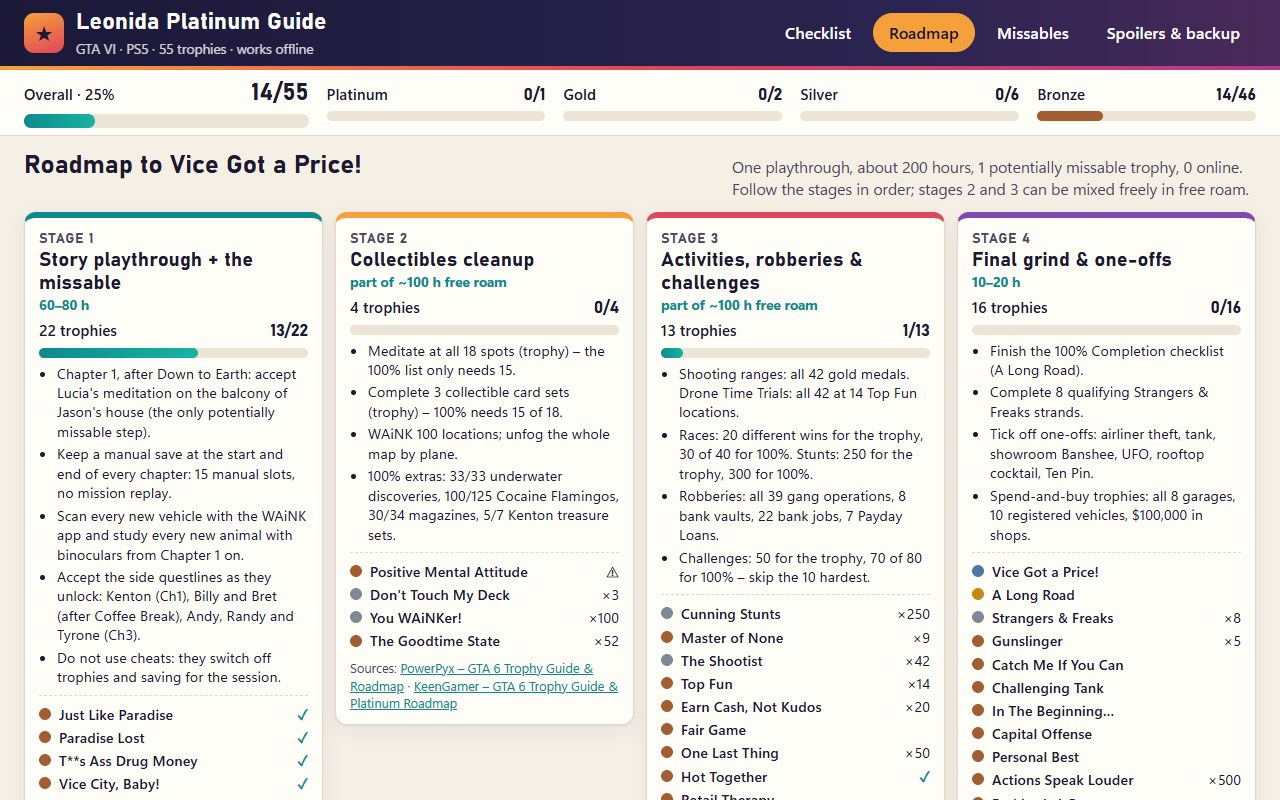
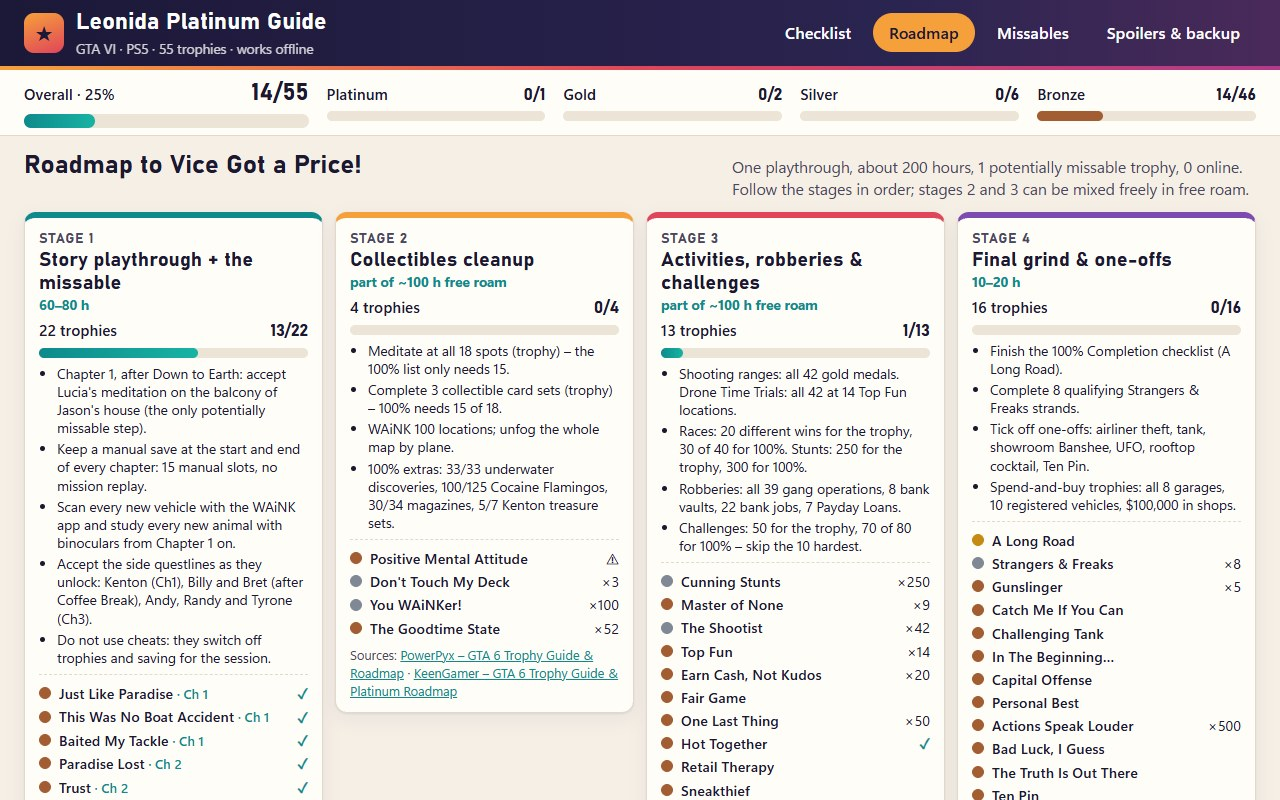
Order the roadmap's story stage by chapter and pre-check trophies.json
- Stage 1 of the roadmap now follows the story timeline with chapter
  labels; free-roam stages keep list order with the platinum last.
- main.ts reports (on stderr only) any missing guide or wrong trophy count
  before writing the dossier, so output stays byte for byte identical.
- Retook the roadmap screenshot; README notes the smoke test.

Changed region(s): [[0.0312, 0.4375, 0.7188, 1.0], [0.6875, 0.4062, 0.9688, 1.0], [0.9375, 0.9688, 0.9688, 1.0]]

diff --git a/main.ts b/main.ts
@@ -6,7 +6,7 @@
 // Run the guide locally: node serve.ts  (then open http://localhost:8080)
 // Hand it in locally:    mkdir -p out && MAKEFUN_OUTPUT_DIR=out node main.ts
 
-import { cpSync, existsSync, mkdirSync, writeFileSync } from 'node:fs';
+import { cpSync, existsSync, mkdirSync, readFileSync, writeFileSync } from 'node:fs';
 import { join } from 'node:path';
 import { fileURLToPath } from 'node:url';
 import { buildDossier } from './vendor/makefun-frontend.ts';
@@ -22,6 +22,25 @@ const DOSSIER_LIMITS = {
   app_max_bytes: 50331648,
 };
 
+const OFFICIAL_TROPHY_COUNT = 55;
+
+// Pre-flight: the gate needs every official trophy named in app/data/trophies.json with a non-blank guide.
+// Problems are reported on stderr only, so the files written stay byte for byte the same on every run.
+function reportTrophyFileProblems(): void {
+  const problems: string[] = [];
+  try {
+    const parsed = JSON.parse(readFileSync(join(here, 'app', 'data', 'trophies.json'), 'utf8'));
+    const trophies: Array<{ name?: unknown; guide?: unknown }> = Array.isArray(parsed) ? parsed : parsed.trophies;
+    if (trophies.length !== OFFICIAL_TROPHY_COUNT) problems.push(`${trophies.length} trophies, expected ${OFFICIAL_TROPHY_COUNT}`);
+    for (const trophy of trophies) {
+      if (typeof trophy.guide !== 'string' || trophy.guide.trim() === '') problems.push(`no guide for ${String(trophy.name)}`);
+    }
+  } catch (error) {
+    problems.push(`app/data/trophies.json is unreadable: ${(error as Error).message}`);
+  }
+  for (const problem of problems) console.error(`trophies.json: ${problem}`);
+}
+
 function copyGuideInto(outputDir: string): void {
   mkdirSync(outputDir, { recursive: true });
   cpSync(join(here, 'app'), join(outputDir, 'app'), { recursive: true });
@@ -35,5 +54,6 @@ function writeDossier(outputDir: string): void {
   writeFileSync(join(outputDir, 'dossier.json'), buildDossier(outputDir, DOSSIER_LIMITS));
 }
 
+reportTrophyFileProblems();
 copyGuideInto(out);
 writeDossier(out);

diff --git a/app/js/views/roadmap-view.js b/app/js/views/roadmap-view.js
@@ -1,7 +1,7 @@
 // The roadmap to the platinum: four stages in order, each with its tasks, its trophies and their progress.
 import { el, replaceContent } from '../ui/dom.js';
 import { renderGradeDot, renderMeter } from '../ui/grade-badge.js';
-import { trophiesInStage } from '../data/load-trophy-data.js';
+import { storyStepOf, trophiesInStage } from '../data/load-trophy-data.js';
 import { maskedTrophyName } from '../logic/spoiler-rules.js';
 import { renderSourceLine } from '../ui/source-links.js';
 
@@ -42,15 +42,17 @@ function renderStageCard(stage, context) {
 
 function renderStageTrophy(trophy, context) {
   const masked = context.isMasked(trophy);
+  const step = storyStepOf(context.data, trophy.id);
   return el(
     'li',
     { className: 'stage-trophy' },
     renderGradeDot(trophy.grade),
-    el('a', {
-      href: `#/checklist/${trophy.id}`,
-      text: masked ? maskedTrophyName(trophy) : trophy.name,
-      title: masked ? 'Spoiler hidden' : trophy.description,
-    }),
+    el(
+      'a',
+      { href: `#/checklist/${trophy.id}`, title: masked ? 'Spoiler hidden' : trophy.description },
+      masked ? maskedTrophyName(trophy) : trophy.name,
+      step && trophy.stage === 1 && el('span', { className: 'stage-chapter', text: ` · ${step.chapter.replace('Chapter ', 'Ch ')}` }),
+    ),
     context.progress.isEarned(trophy.id)
       ? el('span', { className: 'done', text: '✓' })
       : el('span', { text: trophy.missable ? '⚠' : trophy.count ? `×${trophy.count}` : '' }),

diff --git a/app/js/data/load-trophy-data.js b/app/js/data/load-trophy-data.js
@@ -21,6 +21,29 @@ export function indexTrophyData(raw) {
   };
 }
 
+/**
+ * A stage's trophies in play order. The story stage follows the story timeline chapter by chapter; the free-roam
+ * stages keep the official list order, with the platinum always last.
+ */
 export function trophiesInStage(data, stageId) {
-  return data.trophies.filter((trophy) => trophy.stage === stageId);
+  const inStage = data.trophies.filter((trophy) => trophy.stage === stageId);
+  if (stageId === 1) {
+    const storyPosition = storyOrderOf(data);
+    const positionOf = (trophy) => storyPosition.get(trophy.id) ?? Infinity;
+    return inStage.sort((a, b) => positionOf(a) - positionOf(b) || a.id - b.id);
+  }
+  const platinumLast = (trophy) => (trophy.grade === 'platinum' ? 1 : 0);
+  return inStage.sort((a, b) => platinumLast(a) - platinumLast(b) || a.id - b.id);
+}
+
+function storyOrderOf(data) {
+  const position = new Map();
+  data.timeline.forEach((step, index) => {
+    for (const id of step.trophies) if (!position.has(id)) position.set(id, index);
+  });
+  return position;
+}
+
+export function storyStepOf(data, trophyId) {
+  return data.timeline.find((step) => step.trophies.includes(trophyId));
 }

diff --git a/app/css/views.css b/app/css/views.css
@@ -64,8 +64,8 @@
 .stage-tasks {
   margin: 6px 0;
   padding-left: 18px;
-  font-size: 0.9rem;
-  line-height: 1.35;
+  font-size: 0.86rem;
+  line-height: 1.32;
 }
 
 .stage-tasks li + li {
@@ -96,6 +96,12 @@
   white-space: nowrap;
   overflow: hidden;
   text-overflow: ellipsis;
+}
+
+.stage-chapter {
+  font-weight: 500;
+  color: var(--teal);
+  font-size: 0.82rem;
 }
 
 .stage-trophy .done {

diff --git a/README.md b/README.md
@@ -12,7 +12,7 @@
 node serve.ts
 ```
 
-Then open http://localhost:8080. Screenshots are retaken with `node tools/take-screenshots.mjs` (headless Chrome or Edge over the DevTools protocol, driven by `shots.json`).
+Then open http://localhost:8080. Screenshots are retaken with `node tools/take-screenshots.mjs` (headless Chrome or Edge over the DevTools protocol, driven by `shots.json`), and `node tools/smoke-test.mjs` checks the tracker in the same browser: 55 rows, saved ticks, every filter, search, spoilers, export/import, and no request outside the local server.
 
 ---
 
